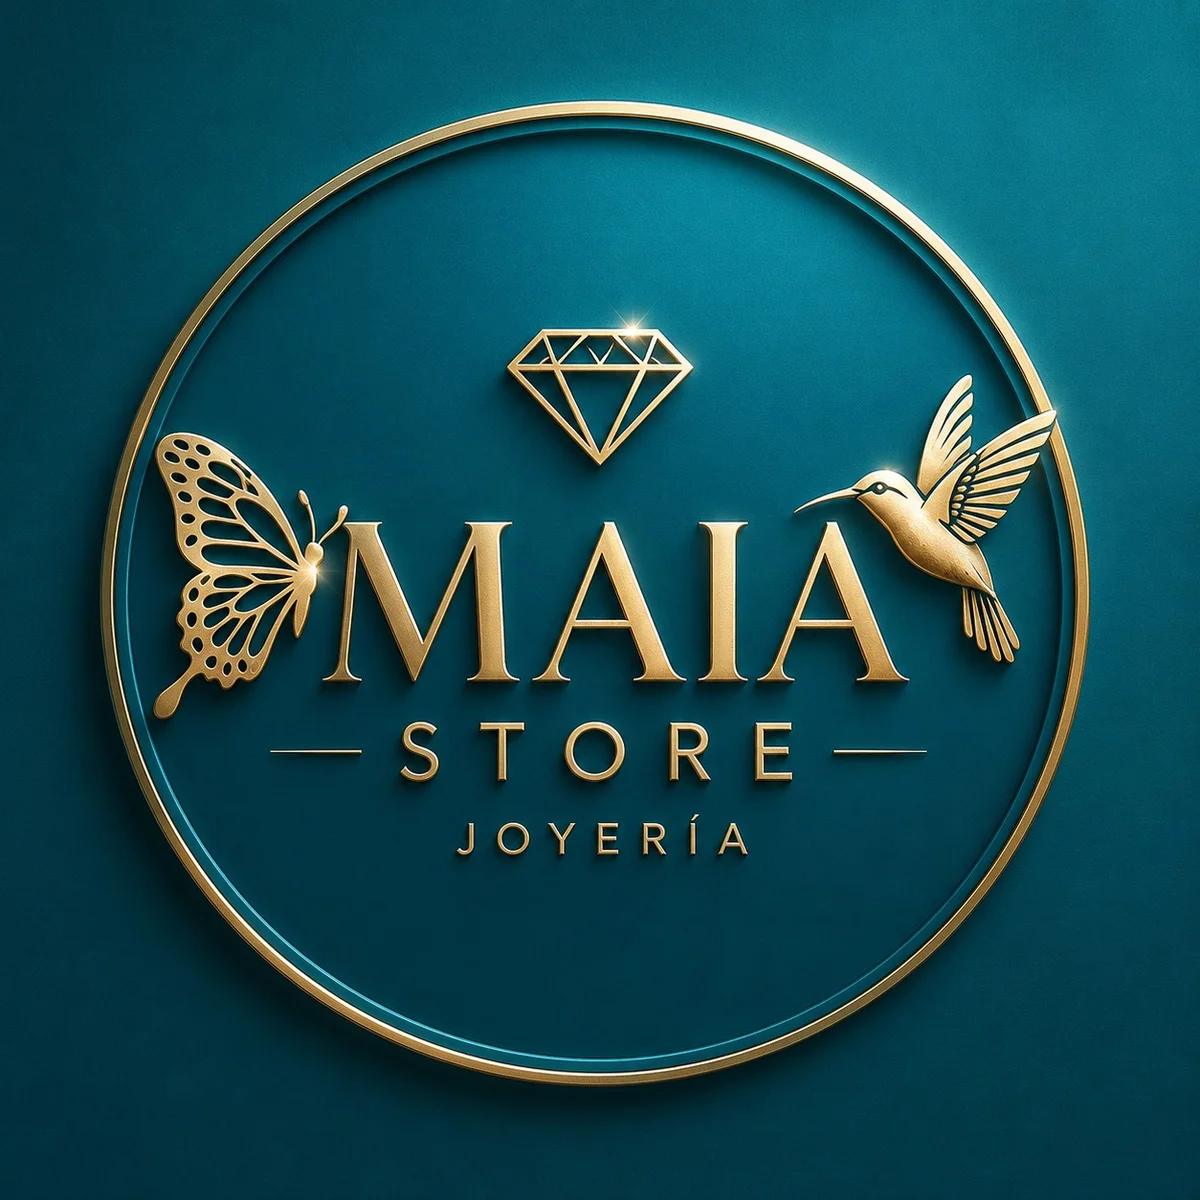
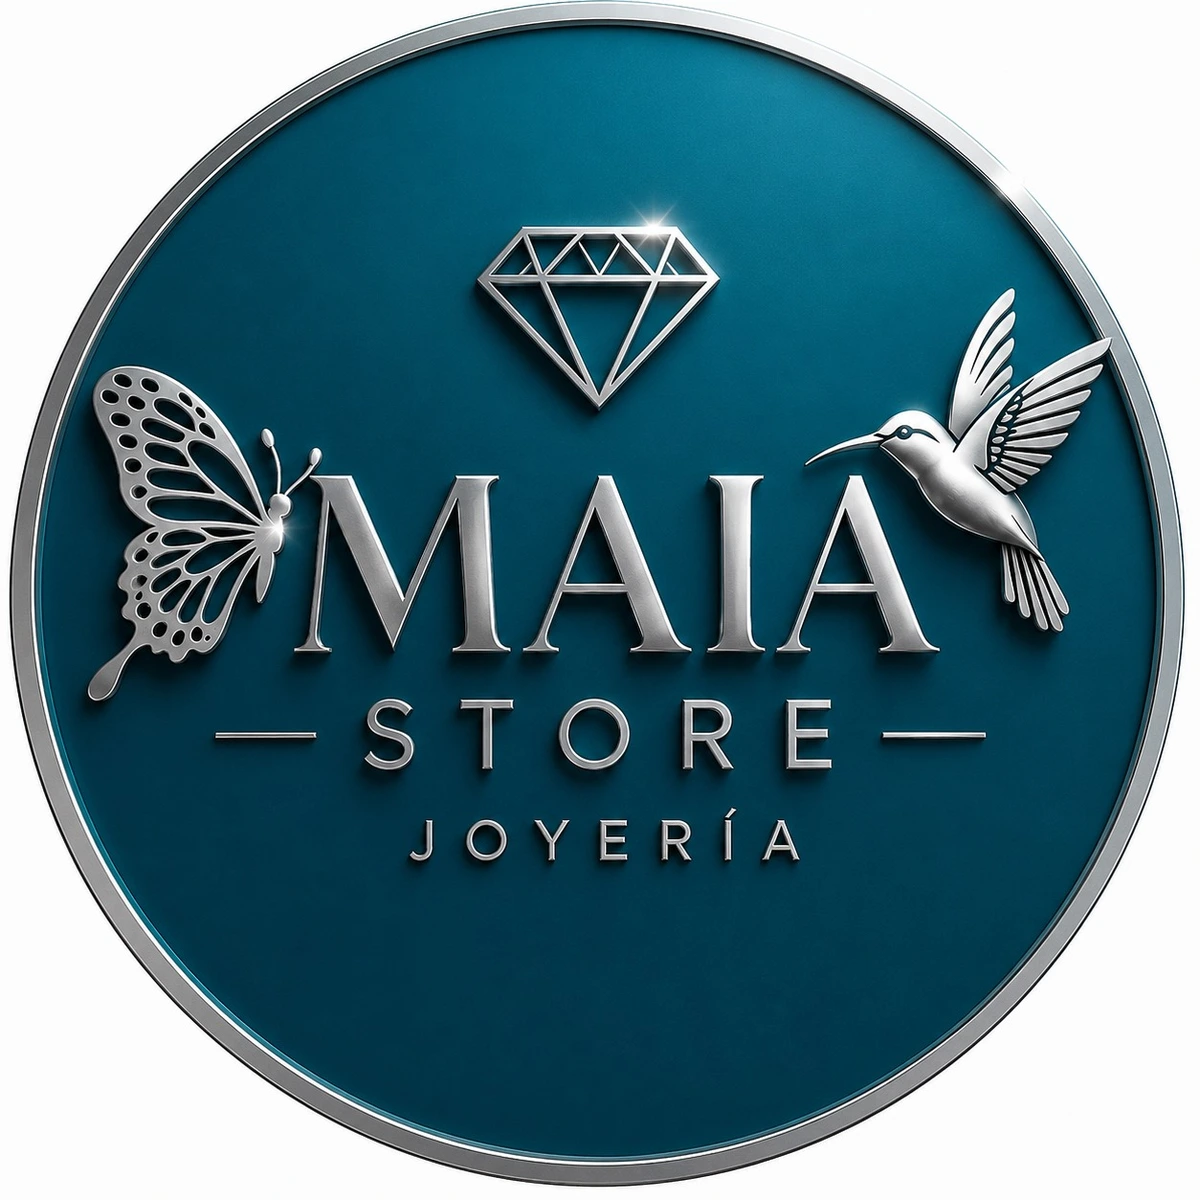
feat: nueva imagen OG completa con padding + JPEG fallback WhatsApp

diff --git a/src/app/(store)/layout.tsx b/src/app/(store)/layout.tsx
@@ -44,6 +44,13 @@ export const metadata: Metadata = {
     url: siteUrl,
     images: [
       {
+        url: "/og-image.jpg",
+        width: 1200,
+        height: 630,
+        alt: "Maia Store — Joyas Tejidas a Mano",
+        type: "image/jpeg",
+      },
+      {
         url: "/og-image.webp",
         width: 1200,
         height: 630,
@@ -57,7 +64,7 @@ export const metadata: Metadata = {
     title: "Maia Store | Joyas Tejidas a Mano",
     description:
       "Colección exclusiva de joyas artesanales tejidas a mano. Diseños únicos peruanos.",
-    images: ["/og-image.webp"],
+    images: ["/og-image.jpg", "/og-image.webp"],
   },
   robots: {
     index: true,

diff --git a/src/app/(store)/coleccion/page.tsx b/src/app/(store)/coleccion/page.tsx
@@ -13,6 +13,13 @@ export const metadata: Metadata = {
     type: 'website',
     images: [
       {
+        url: '/og-image.jpg',
+        width: 1200,
+        height: 630,
+        alt: 'Maia Store — Colección de Joyas Artesanales',
+        type: 'image/jpeg',
+      },
+      {
         url: '/og-image.webp',
         width: 1200,
         height: 630,
@@ -23,7 +30,7 @@ export const metadata: Metadata = {
   },
   twitter: {
     card: 'summary_large_image',
-    images: ['/og-image.webp'],
+    images: ['/og-image.jpg', '/og-image.webp'],
   },
 };
 

diff --git a/src/app/layout.tsx b/src/app/layout.tsx
@@ -24,6 +24,13 @@ export const metadata: Metadata = {
   openGraph: {
     images: [
       {
+        url: "/og-image.jpg",
+        width: 1200,
+        height: 630,
+        alt: "Maia Store — Joyas Tejidas a Mano",
+        type: "image/jpeg",
+      },
+      {
         url: "/og-image.webp",
         width: 1200,
         height: 630,
